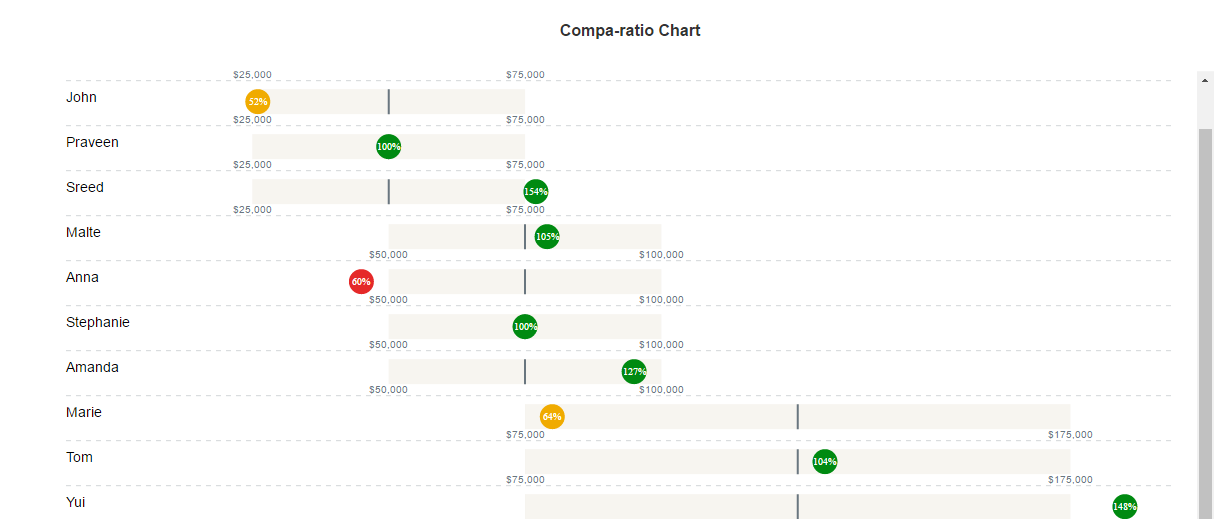
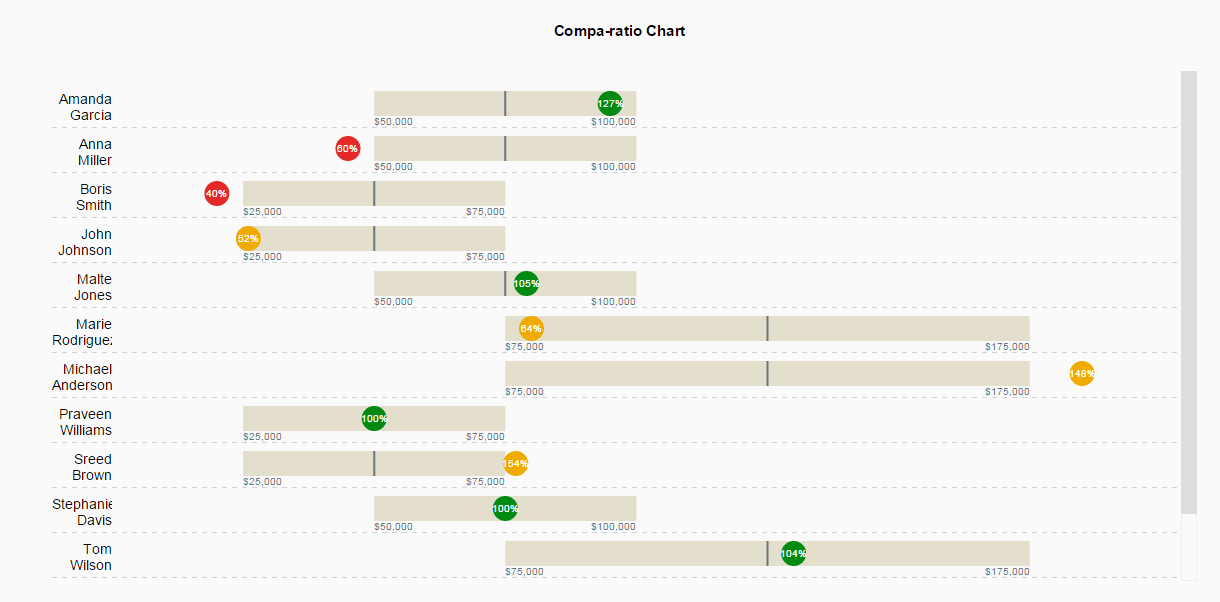
changed bubble color from green to yellow if salary exceeds maximum; Updated picture for readme

diff --git a/CompaRatio_Chart/src/bundles/sap/viz/ext/comparatiochart/sap_viz_ext_comparatiochart-src/js/render.js b/CompaRatio_Chart/src/bundles/sap/viz/ext/comparatiochart/sap_viz_ext_comparatiochart-src/js/render.js
@@ -130,7 +130,7 @@ define("sap_viz_ext_comparatiochart-src/js/render", [], function() {
             .attr("r", (barHeight -numHeight)/2)
             .style("fill", function(d) {
                 if (d[current] < d[min]) {return "#E52929";}
-                else if (d[current] >= (d[max] + d[min]) / 2) {return "#008A11";}
+                else if (d[current] >= (d[max] + d[min]) / 2 && d[current] <= d[max] ) {return "#008A11";}
                 else { return "#F0AB00"; }
             });
         

diff --git a/CompaRatio_Chart/src/bundles/sap/viz/ext/comparatiochart/comparatiochart-bundle.js b/CompaRatio_Chart/src/bundles/sap/viz/ext/comparatiochart/comparatiochart-bundle.js
@@ -16,7 +16,7 @@ define("comparatiochart-bundle", ["sap_viz_ext_comparatiochart-src/js/flow", "cs
 		};
 		var vizExtBundle = sap.bi.framework.declareBundle({
 			"id": "sap.viz.ext.comparatiochart",
-			"version": "1.0.1",
+			"version": "1.0.2",
 			"components": [{
 				"id": "sap.viz.ext.comparatiochart",
 				"provide": "sap.viz.impls",
